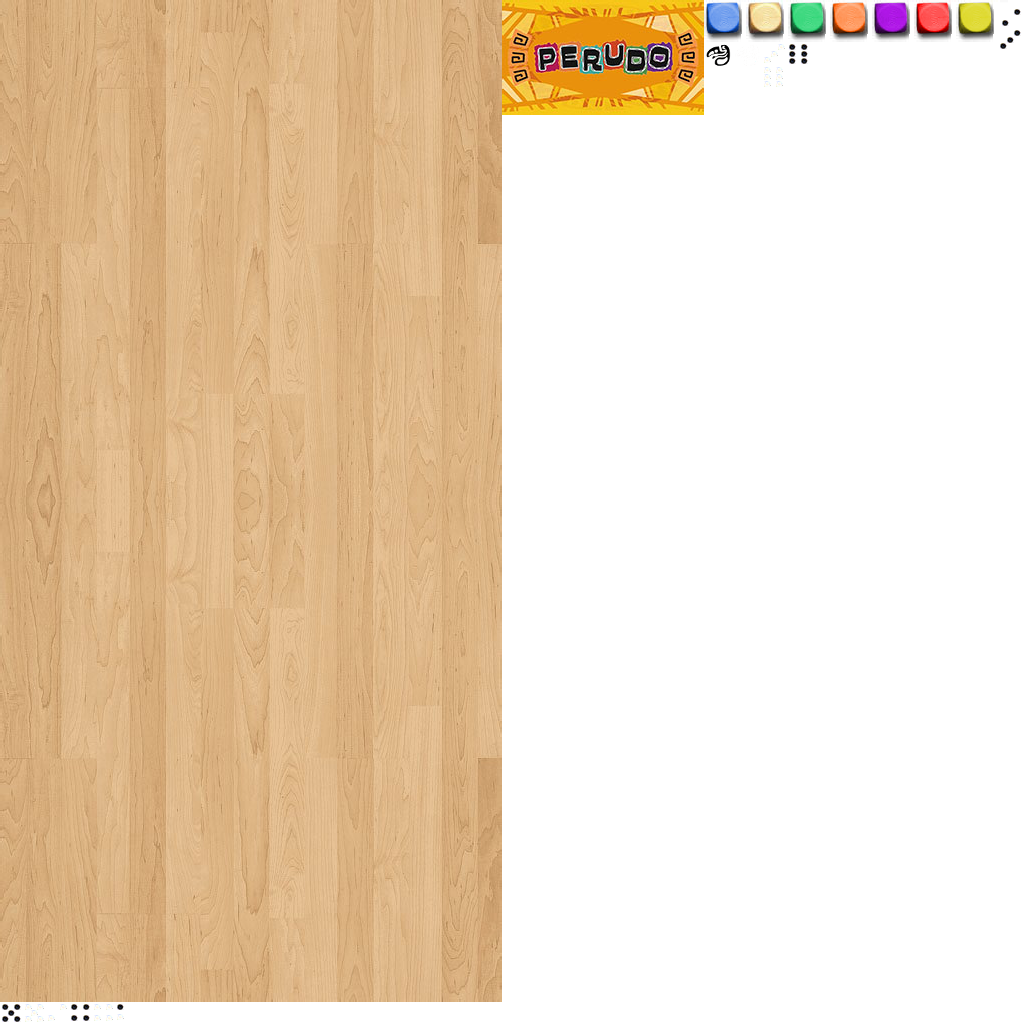
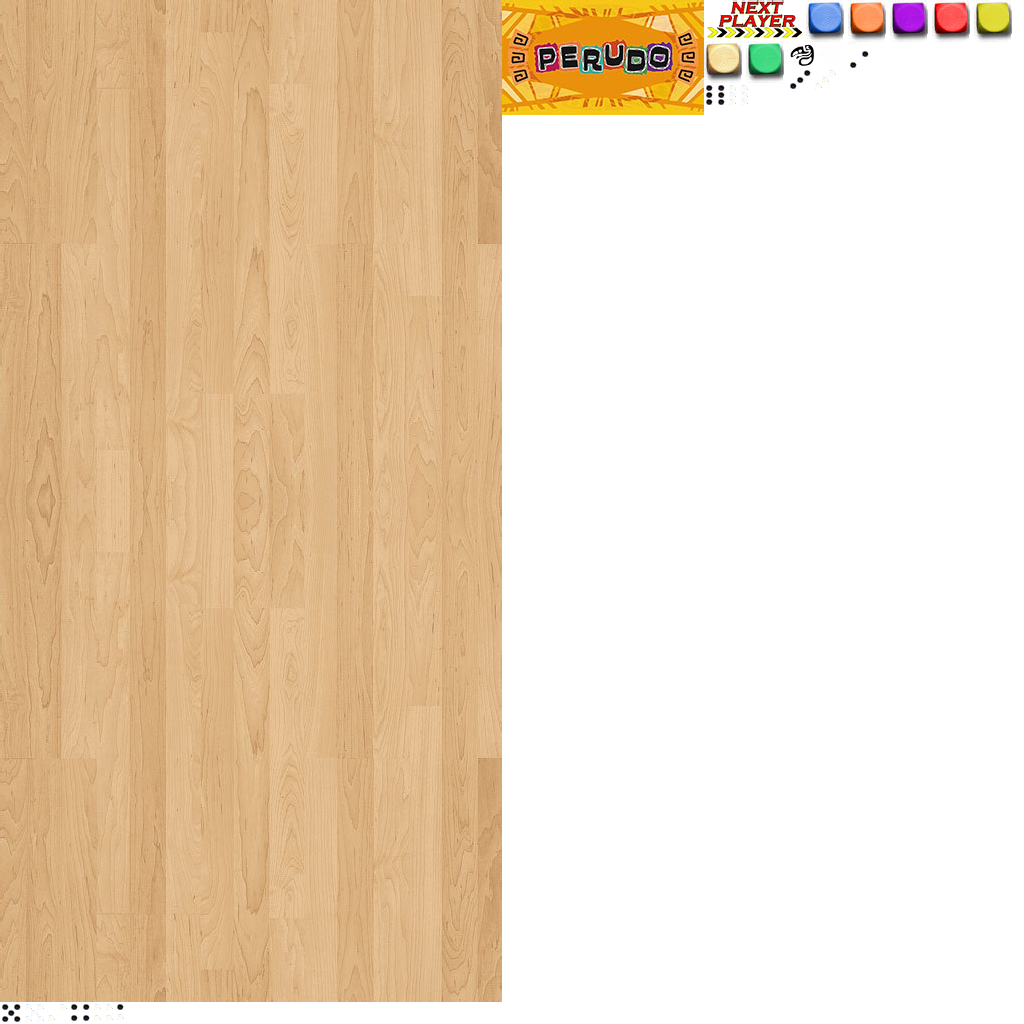
bouton pour continuer

Changed region(s): [[0.6875, 0.0, 1.0, 0.0938]]

diff --git a/IA/perudo/js/Board.js b/IA/perudo/js/Board.js
@@ -36,6 +36,8 @@ Board.prototype = Object.create(PIXI.Container.prototype);
 Board.prototype.rollDice = function() {
 
 	this.dicesInGame = 0;
+	this.numDices = 0;
+    this.diceValue = 0;
 
 	for (var i = 0; i < this.players.length; ++i) {
 
@@ -66,8 +68,6 @@ Board.prototype.playerIncremented = function(evt) {
 		if (++this.playerTurn >= this.players.length)
 			this.playerTurn = 0;
 
-		this.play();
-
 	} else {
 
 		console.log("le joueur " + this.players[this.playerTurn].name + " a fait une proposition qui ne respecte pas les règles");
@@ -78,6 +78,8 @@ Board.prototype.playerSaidDudo = function() {
 
 	//TODO manage paco
 
+	console.log(this.players[this.playerTurn].name + " dit dudo !");
+
 	var numDices = 0;
 	for (var i = 0; i < this.players.length; ++i)
 		for (var j = 0; j < this.players[i].dices.length; ++j)
@@ -87,13 +89,19 @@ Board.prototype.playerSaidDudo = function() {
 	var lostPlayerIndex = 0;
 	if (numDices < this.numDices) {
 
+		console.log("le nombre de dés est inférieur au nombre annoncé !");
+
 		if (this.playerTurn == 0)
 			lostPlayerIndex = this.players.length - 1;
 		else
 			lostPlayerIndex = this.playerTurn - 1;
 
-	} else
+	} else {
+
+		console.log("il y a au moins le nombre de dés annoncé !");
+
 		lostPlayerIndex = this.playerTurn;
+	}
 
 	this.players[lostPlayerIndex].lostDice();
 	this.playerTurn = lostPlayerIndex;
@@ -107,7 +115,6 @@ Board.prototype.playerSaidDudo = function() {
 	else {
 
 		this.rollDice();
-		this.play();
 	}
 }
 

diff --git a/IA/perudo/js/Main.js b/IA/perudo/js/Main.js
@@ -19,10 +19,22 @@ Main.prototype.onAssetsLoaded = function() {
     title.y = this.board.y + 20;
     this.addChild(title);
 
+    var nextPlayer = PIXI.Sprite.fromFrame("next_player.png");
+    nextPlayer.x = this.board.x + this.board.width - nextPlayer.width - 50;
+    nextPlayer.y = title.y + (title.height - nextPlayer.height) / 2;
+    this.addChild(nextPlayer);
+
+    nextPlayer.interactive = nextPlayer.buttonMode = true;
+    nextPlayer.click = this.nextPlayer.bind(this);
+
     this.board.rollDice();
-    this.board.play();
 }
 
 Main.prototype.update = function() {
 
+}
+
+Main.prototype.nextPlayer = function() {
+
+	this.board.play();
 }

diff --git a/IA/perudo/js/APlayer.js b/IA/perudo/js/APlayer.js
@@ -39,6 +39,10 @@ APlayer.prototype.rollDice = function() {
 	for (var i = 0; i < this.numDices; ++i)
 		this.dices.push(Utils.randomIntFromInterval(1, 6));
 
+	// suppression de la précédente proposition
+	if (this.children.length > 2)
+		this.removeChildren(2);
+
 	console.log(this.name + " dés : " + this.dices);
 }
 

diff --git a/IA/perudo/js/Player.js b/IA/perudo/js/Player.js
@@ -22,8 +22,10 @@ Player.prototype.play = function() {
 
 		// enchère ou bluff
 
-		//this.emit('incremented', {numDices:3, diceValue:3});
+		if (this.parent.numDices > 6)
+			this.emit('dudo');
 
-		this.emit('dudo');
+		else
+			this.emit('incremented', {numDices:this.parent.numDices + 1, diceValue:3});
 	}
 }
